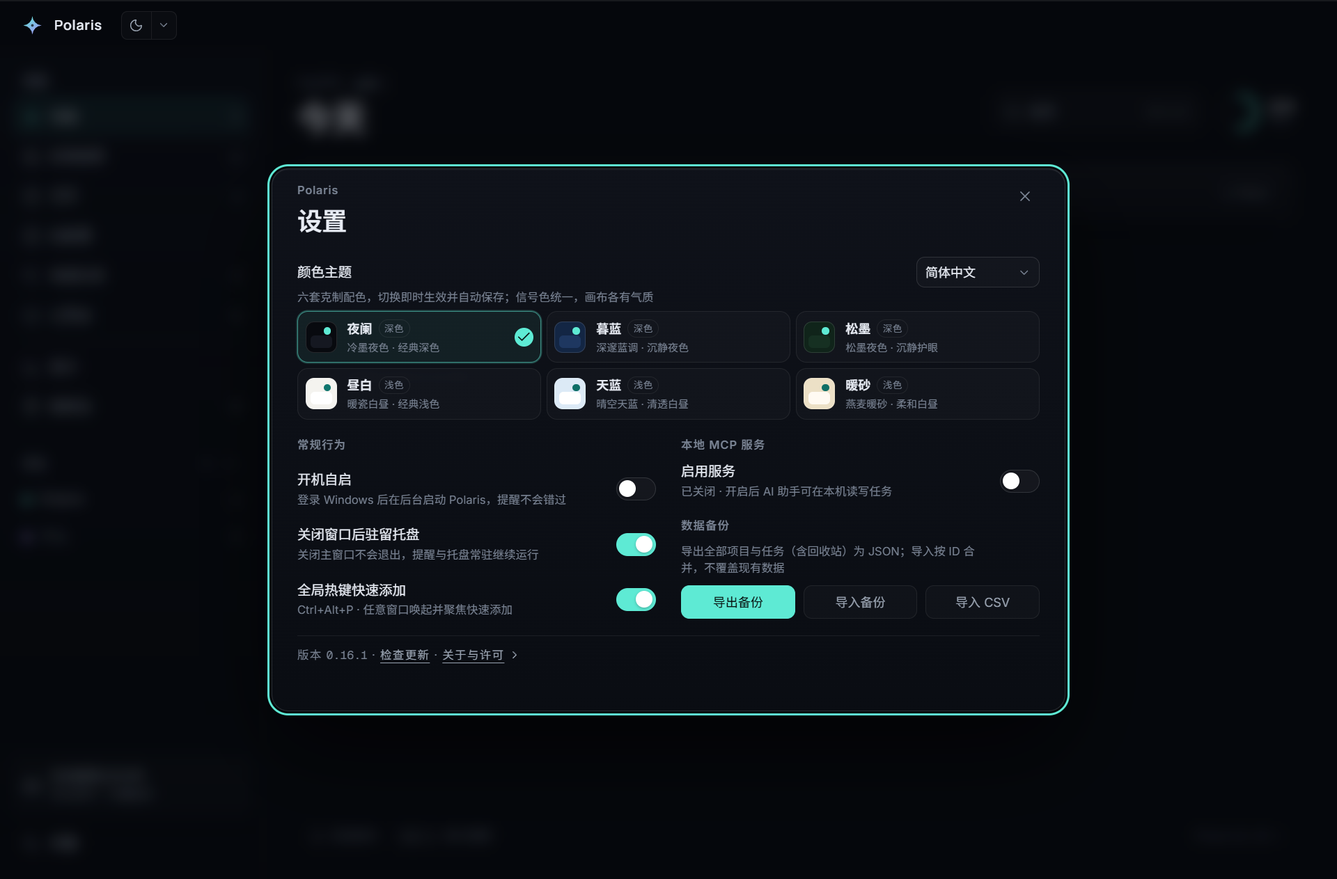
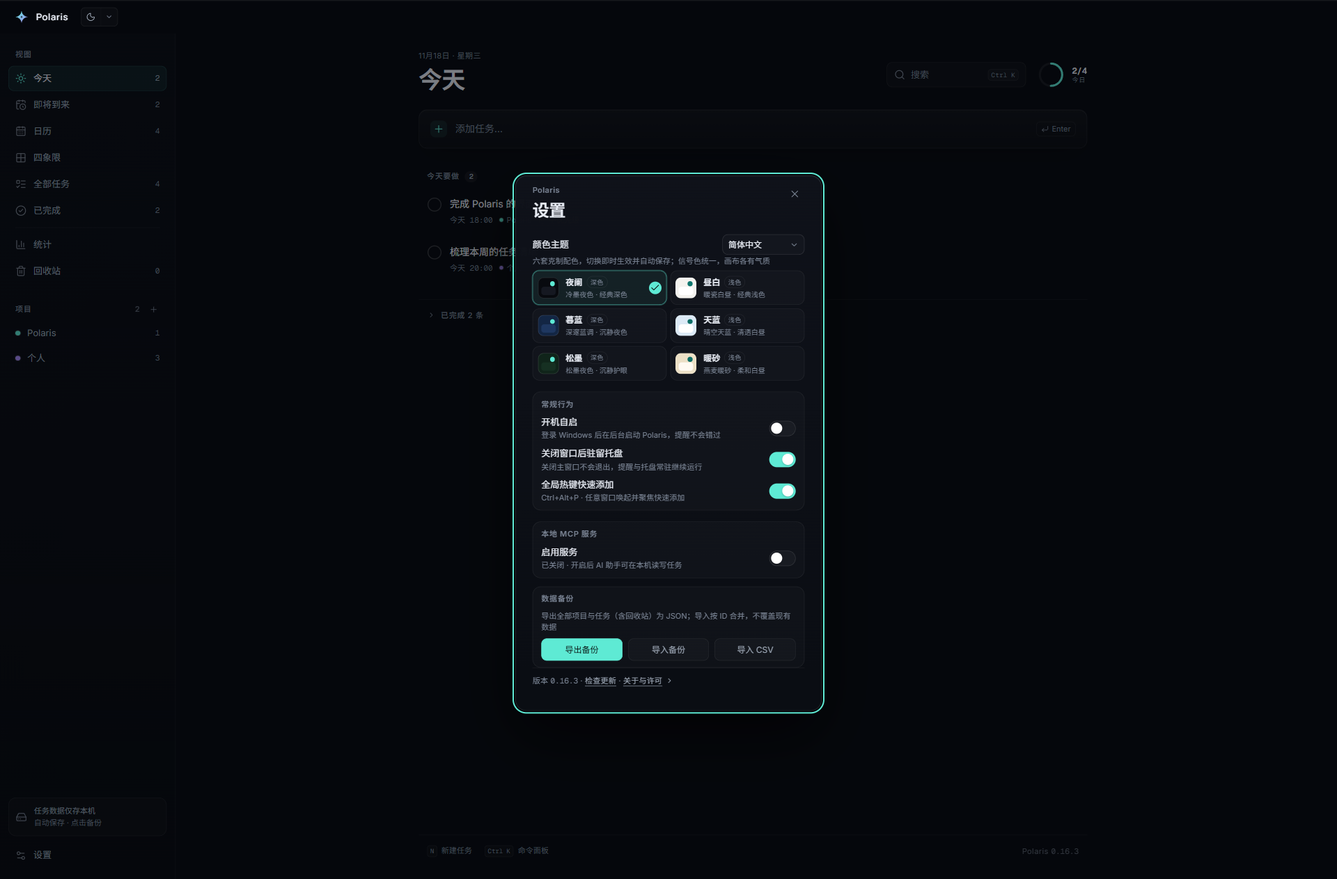
设置页顶边锚定根除关于展开抖动 + 分组卡片布局打磨
- 抖动根因：浮层按内容真实高度垂直居中，关于展开/MCP 启用长高瞬间重新居中=整面板跳
- 修法：顶边按名义高度锚定（单列 760/紧凑 560，max(24px,(100vh-名义)/2)），内容只向下生长；max-height 同扣顶边距；关于折叠加 motion 高度 0→auto 200ms 展开动画
- 布局：行为/MCP/备份三组成组卡（surface-1+line 材质与主题卡同源，半径 12）；废左列 space-between 拉伸（行距忽大忽小根因）改顶对齐固定行距；右列同拉伸、备份卡 flex:1 吸收余白，两列任何状态同高；卡内描述解锁 290px；页脚中文字距 0.08em→0.02em
- 预算实测（CDP 探针六档）：收起 551px，640 帽 576 吞热键错误行 25 恰好一屏；576 滚约 24px（旧约 40）；843 MCP 启用 657 不滚；顶边/页脚顶边展开收起全程零位移
- 冒烟新增 settingsAboutStable（1280×843 顶边+页脚顶边零位移且确实长高防恒真），158→159 全绿
- 截图归档重截；README/CLAUDE.md 同步；探针脚本已清
- 捕获伪影记录：CDP 该视口下 backdrop-filter 使固定浮层子树丢出截图（关 filter 即入镜），属工具层缺陷非应用 bug，截图瞬间关 filter 规避

diff --git a/src/renderer/src/styles/globals.css b/src/renderer/src/styles/globals.css
@@ -4406,20 +4406,26 @@ textarea {
 
 /* ---------- settings ---------- */
 
+/* 顶边锚定：浮层不再按内容真实高度垂直居中（内容一长高就重新居中 = 抖动），
+   而是按「名义高度」算出固定顶边距——单列名义 760、紧凑两列名义 560（媒体块覆写）。
+   展开关于/启用 MCP 只向下生长，顶边与页脚纹丝不动；名义值略大于收起态实际高度，
+   收起时面板落在光学中心偏上一点，比数学居中更稳。 */
 .settings-overlay {
+  --settings-inset-top: max(24px, calc((100vh - 760px) / 2));
   position: fixed;
   z-index: 70;
   inset: 0;
   display: flex;
-  align-items: center;
+  align-items: flex-start;
   justify-content: center;
+  padding-top: var(--settings-inset-top);
   background: var(--command-overlay);
   backdrop-filter: blur(7px);
 }
 
 .settings-panel {
   width: min(440px, calc(100vw - 48px));
-  max-height: calc(100vh - 96px);
+  max-height: calc(100vh - var(--settings-inset-top) - 24px);
   overflow-y: auto;
   padding: 12px 24px;
   border: 1px solid var(--line-strong);
@@ -4482,6 +4488,23 @@ textarea {
   margin-top: 0;
 }
 
+/* 分组卡片：行为 / MCP / 备份三组各自成卡，材质与主题选项卡同源
+   （surface-1 底 + line 描边），左列拉伸留下的余白被卡框收住，
+   不再是裸奔的大洞。半径 12 介于面板 16 与按钮 8 之间，层级递减。 */
+.settings-section--behavior,
+.settings-side .settings-section {
+  padding: 9px 12px;
+  border: 1px solid var(--line);
+  border-radius: 12px;
+  background: var(--surface-1);
+}
+
+/* 卡内描述不再锁 290px：半宽列里让句子吃满卡宽，少折一行是一行。 */
+.settings-section--behavior .settings-row-desc,
+.settings-side .settings-row-desc {
+  max-width: none;
+}
+
 /* 语言下拉上移到主题标题行右侧，省一整行高度。 */
 .settings-theme-head {
   display: flex;
@@ -4494,7 +4517,7 @@ textarea {
 .settings-side {
   display: flex;
   flex-direction: column;
-  gap: 16px;
+  gap: 12px;
   min-width: 0;
   margin-top: 16px;
 }
@@ -5013,7 +5036,7 @@ textarea {
   border-top: 1px solid var(--line);
   color: var(--text-tertiary);
   font-size: 11px;
-  letter-spacing: 0.08em;
+  letter-spacing: 0.02em;
 }
 
 /* 版本号走等宽，与日期/时间数字同一套排版；父级的字距对数字不适用。 */
@@ -5026,12 +5049,18 @@ textarea {
    不靠压字号换高度。主题网格三列两行横跨整幅；左列「应用行为」（三开关一组），
    右列「数据进出」（MCP + 备份，settings-side 包裹）；页脚/状态/关于折叠横跨整幅。
    命名 grid-area 定位，DOM 顺序 = 视觉顺序 = 焦点顺序，加节挪节不再打乱排布。
-   关于折叠不占常驻行（挂载才生隐式行），收起态高度预算 ≈ header 53 + 主题 156
-   + max(行为 152, MCP+备份 175) + 页脚/状态 44 + 四道 gap 64 + 内边距 24 ≈ 516px，
-   加热键冲突错误行 25px 也小于最小窗口 640-96=544px。
+   关于折叠不占常驻行（挂载才生隐式行）。分组卡片化后实测预算（CDP 探针）：
+   收起态含状态行 551px；640 窗口顶边距 40 + 底留 24 → 帽 576，加热键冲突
+   错误行 25 = 576 恰好一屏；576 实机档帽 528，内容 551 滚约 24px（旧版约 40，
+   面板自带 overflow，如实保留）。MCP 启用态 657px：843 窗口帽 677 不滚，
+   640/576 滚——令牌块本就是条件增高，滚动只发生在面板内部，顶边锚定不抖。
    断点取 860 而非 830：默认 840 窗口也走两列，留足余量吞掉任何条件行；
-   单列只留给 >860 的高窗口（关于折叠后全条件内容更矮，765px 里放得下）。 */
+   单列只留给 >860 的高窗口（收起态实测 799px，900 窗口帽 806 放得下）。 */
 @media (max-height: 860px) {
+  .settings-overlay {
+    --settings-inset-top: max(24px, calc((100vh - 560px) / 2));
+  }
+
   .settings-panel {
     display: grid;
     grid-template-columns: minmax(0, 1fr) minmax(0, 1fr);
@@ -5042,7 +5071,7 @@ textarea {
       'footer footer'
       'status status';
     column-gap: 24px;
-    row-gap: 16px;
+    row-gap: 12px;
     align-items: start;
     width: min(760px, calc(100vw - 48px));
   }
@@ -5090,23 +5119,31 @@ textarea {
     order: 6;
   }
 
-  /* 左列拉伸到与右列同高：MCP 启用态右列长高时，开关行间距自适应呼吸，
-     不留左下大洞；行距下限 8 由 gap 保住，多余空间 space-between 分摊。 */
+  /* 左列卡片拉伸到与右列同高（balanced 断言钉死两列等高）：行组顶对齐、
+     行距固定 8，余白留在卡框内底部——框住的留白是呼吸，没框的留白是洞。
+     旧 space-between 把余白摊进行距，三开关间距忽大忽小，节奏已废。 */
   .settings-section--behavior {
     grid-area: behavior;
     align-self: stretch;
     display: flex;
     flex-direction: column;
     gap: 8px;
-    justify-content: space-between;
+    justify-content: flex-start;
   }
 
   .settings-section--behavior .settings-row {
     margin-top: 0;
   }
 
+  /* 右列也拉伸：MCP 关闭态左卡内容比右列高时，余白由备份卡吸收
+     （flex:1 + 内容顶对齐），两列任何状态同高（balanced 断言）。 */
   .settings-side {
     grid-area: side;
+    align-self: stretch;
+  }
+
+  .settings-side .settings-section--backup {
+    flex: 1;
   }
 
   .settings-footer {

diff --git a/src/main/harness/smoke.ts b/src/main/harness/smoke.ts
@@ -3907,6 +3907,56 @@ export async function runSmokeTest(): Promise<void> {
       }
     }
 
+    // 设置页顶边锚定（1280×843 实机比例）：展开/收起关于时面板顶边与页脚顶边
+    // 纹丝不动——旧垂直居中在内容长高瞬间重新居中 = 用户实机报障的抖动根因；
+    // 现顶边按名义高度锁死，展开只向下生长（grew 证明真的长高了，不是恒真）。
+    let settingsAboutStable = false
+    if (mainWindow) {
+      const originalSize = mainWindow.getSize()
+      mainWindow.setSize(1280, 843)
+      await settledFrames(mainWindow.webContents)
+      try {
+        const stable = await mainWindow.webContents.executeJavaScript(`(async () => {
+          ${pageHelpers}
+          document.querySelector('.settings-item').click();
+          const panel = await waitFor(() => document.querySelector('.settings-panel'));
+          if (!panel) return { found: false };
+          await sleep(450);
+          const top = () => panel.getBoundingClientRect().top;
+          const ftop = () => panel.querySelector('.settings-footer').getBoundingClientRect().top;
+          const height = () => panel.getBoundingClientRect().height;
+          const before = top(); const fbefore = ftop(); const hbefore = height();
+          const toggle = panel.querySelector('.settings-about-toggle');
+          toggle?.click();
+          await waitFor(() => panel.querySelector('.about-credits'));
+          await sleep(350);
+          const openTop = top(); const openF = ftop(); const hopen = height();
+          toggle?.click();
+          await waitFor(() => !panel.querySelector('.about-credits'));
+          await sleep(350);
+          const closedTop = top(); const closedF = ftop();
+          document.querySelector('.settings-panel .detail-close')?.click();
+          await sleep(250);
+          return {
+            found: true,
+            grew: hopen > hbefore + 40,
+            openStable: Math.abs(openTop - before) <= 1 && Math.abs(openF - fbefore) <= 1,
+            closedStable: Math.abs(closedTop - before) <= 1 && Math.abs(closedF - fbefore) <= 1
+          };
+        })()`)
+        settingsAboutStable =
+          stable?.found === true &&
+          stable?.grew === true &&
+          stable?.openStable === true &&
+          stable?.closedStable === true
+        if (!settingsAboutStable) console.error('SETTINGS_ABOUT_STABLE_FAIL', JSON.stringify(stable))
+      } finally {
+        mainWindow.setSize(originalSize[0], originalSize[1])
+        await settledFrames(mainWindow.webContents)
+      }
+    }
+
+
     // 托盘驻留开关：默认开；UI 往返持久化；开启时关窗=隐藏而非退出。
     let trayToggleWorks = false
     try {
@@ -4829,6 +4879,7 @@ export async function runSmokeTest(): Promise<void> {
       settingsFitsCompact: settingsFitsCompact === true,
       settingsNoShift: settingsNoShift === true,
       settingsLayoutV2: settingsLayoutV2 === true,
+      settingsAboutStable: settingsAboutStable === true,
       trayToggleWorks: trayToggleWorks === true,
       trayMenuEntries: trayMenuEntries === true,
       traySettingsOpens: traySettingsOpens === true,
@@ -4930,6 +4981,7 @@ export async function runSmokeTest(): Promise<void> {
           settingsFitsCompact,
           settingsNoShift,
           settingsLayoutV2,
+          settingsAboutStable,
           trayToggleWorks,
           trayMenuEntries,
           traySettingsOpens,

diff --git a/src/renderer/src/components/SettingsPanel.tsx b/src/renderer/src/components/SettingsPanel.tsx
@@ -673,9 +673,19 @@ export function SettingsPanel({ open, onClose, scrollTo = null }: SettingsPanelP
               {updateErrorDetail ?? (updateStatusVisible && update ? updateStatusText(update, t) : '')}
             </div>
 
-            {/* 关于与许可折叠内容：展开才挂载，收起即卸载，默认零增高。 */}
-            {aboutOpen && (
-              <div className="settings-about">
+            {/* 关于与许可折叠内容：展开才挂载，收起即卸载，默认零增高。
+                高度 0→auto 动画让展开是「缓缓展开」而不是瞬移；浮层顶边已锚定，
+                面板不重新居中，动画只向下生长。 */}
+            <AnimatePresence initial={false}>
+              {aboutOpen && (
+                <motion.div
+                  className="settings-about"
+                  initial={{ height: 0, opacity: 0 }}
+                  animate={{ height: 'auto', opacity: 1 }}
+                  exit={{ height: 0, opacity: 0 }}
+                  transition={{ duration: 0.2, ease: 'easeOut' }}
+                  style={{ overflow: 'hidden' }}
+                >
                 {/* 版本号常驻页脚，展开区只留许可署名，不重复报版本。 */}
                 <div className="settings-row-desc">{t('settings.versionOnly')}</div>
                 <div className="about-credits">
@@ -691,8 +701,9 @@ export function SettingsPanel({ open, onClose, scrollTo = null }: SettingsPanelP
                     {t('settings.creditsNote')}
                   </div>
                 </div>
-              </div>
-            )}
+                </motion.div>
+              )}
+            </AnimatePresence>
 
             {/* 重新生成令牌的二次确认：旧客户端配置立即失效，属破坏性动作。
                 ConfirmDialog 自带焦点陷阱（压在面板陷阱之上）并在 React 根

diff --git a/CLAUDE.md b/CLAUDE.md
@@ -183,7 +183,7 @@ npm run make:icon   # regenerate build/icon.png / .ico / .icns
 - Two locales ship: `zh-CN` (default) and `en`. The dictionary is a lightweight hand-rolled module under `src/shared/i18n/` — no third-party i18n library. Chinese is the mother table, split by domain into nine files (`common` / `nav` / `views` / `detail` / `quickAdd` / `settings` / `dialogs` / `main` / `features`) merged in `zh.ts`; `en.ts` is typed `const en: Messages`, so a missing English key is a typecheck error. `translate(locale, key, params)` interpolates `{name}` and falls back to `zhCN` then the raw key. Brand name `Polaris` is never translated.
 - Renderer: `useLocaleStore` (Zustand) owns the locale, persisted in localStorage `polaris-locale`. Initial value = URL query `locale` → stored value → `navigator.language` through `localeFromLanguageTag` (zh* → `zh-CN`, everything else → `en`). Components call `useT()` for a locale-bound `t` and `useLocale()` when a helper needs the locale (dates, recurrence, theme labels). `LocaleSync` is mounted once in `App.tsx` and syncs `<html lang>`, pushes `app:set-locale` to the main process, follows `storage` events from other windows via `setState` (never writing back), and exposes the smoke hook `window.__polarisSetLocale`.
 - Main process: `src/main/locale.ts` is the single record, persisted in the existing `meta` table under `locale` (no migration). `initAppLocale()` forces `zh-CN` whenever `POLARIS_SMOKE` / `POLARIS_SHOT` / `POLARIS_SCREENSHOT` is set (harness builds only — the env read is behind `__POLARIS_HARNESS__`) — every existing smoke assertion and screenshot works on Chinese text. `app:get-locale` / `app:set-locale` live inline in `app.whenReady()`; a successful set also calls `updateTrayLocale()`. The renderer URL carries `?locale=` so the first frame paints the authoritative language before the store boots (the splash does too). Tray labels go through the `tray.*` keys and `getTrayMenuLabels()` reads the built menu; `describeTrayCheck(state, locale = 'zh-CN')` is the pure helper behind tray balloons; native file dialogs use `translate(getCurrentLocale(), 'native.*')`.
-- The language switch is `LanguageSelect.tsx`, a hand-drawn dropdown sitting on the theme section's title row (right side) in `SettingsPanel`, saving a full row of height. It replaces the native `<select>` because the OS draws the native popup white regardless of theme; the menu is absolutely positioned inside the row (scrolls with the panel, no viewport repositioning math) and paints with `--panel-bg` / `--line-strong` / `--hover` tokens like `ThemeMenu`. Options are `div[role="option"]` with roving tabindex (never buttons — the trap's FOCUSABLE selector counts buttons); Esc must `stopPropagation` or the settings panel's window listener closes the whole panel; Tab closes without trapping; outside pointerdown and blur-outside close it. The panel's compact two-column layout is positioned by named `grid-template-areas` (left = behavior group, right = MCP + backup wrapped in `settings-side`), so sections can be added or moved without breaking the grid. About/credits collapse into a footer disclosure (「关于与许可」, expanded mounts / collapsed unmounts); the version number stays in the footer. The two options always read `简体中文` / `English` in their own language, never translated. Trigger focus uses the app's soft-focus language (faint accent border + light glow, `outline: 0`), never a hard ring. Smoke: `languageMenuThemed` compares the menu's computed background against a `var(--panel-bg)` probe byte-for-byte, clicks through both options, and checks Esc closes only the menu.
+- The language switch is `LanguageSelect.tsx`, a hand-drawn dropdown sitting on the theme section's title row (right side) in `SettingsPanel`, saving a full row of height. It replaces the native `<select>` because the OS draws the native popup white regardless of theme; the menu is absolutely positioned inside the row (scrolls with the panel, no viewport repositioning math) and paints with `--panel-bg` / `--line-strong` / `--hover` tokens like `ThemeMenu`. Options are `div[role="option"]` with roving tabindex (never buttons — the trap's FOCUSABLE selector counts buttons); Esc must `stopPropagation` or the settings panel's window listener closes the whole panel; Tab closes without trapping; outside pointerdown and blur-outside close it. The panel's compact two-column layout is positioned by named `grid-template-areas` (left = behavior group, right = MCP + backup wrapped in `settings-side`), so sections can be added or moved without breaking the grid. Behavior / MCP / backup are group cards (`--surface-1` + `--line`, radius 12 — same material as theme options); both columns stretch to equal height in every state (behavior `align-self: stretch` with top-aligned rows at fixed gap 8 — the old `space-between` stretch made uneven row gaps; side stretches too and the backup card absorbs slack via `flex: 1`), pinned by the `balanced` smoke discriminator. The overlay is **top-anchored, not content-centered**: `--settings-inset-top: max(24px, calc((100vh - nominal) / 2))` (nominal 760 single-column / 560 compact) fixes the panel's top edge so growing content (about disclosure, MCP token block) only extends downward — no re-centering jump; panel `max-height` subtracts the same inset. About/credits collapse into a footer disclosure (「关于与许可」, expanded mounts / collapsed unmounts, `motion.div` height 0→auto 200ms so the growth reads as an unfold); the version number stays in the footer. Smoke `settingsAboutStable` pins panel-top and footer-top immutability across the toggle at 1280×843 (with a `grew` guard against vacuous pass). The two options always read `简体中文` / `English` in their own language, never translated. Trigger focus uses the app's soft-focus language (faint accent border + light glow, `outline: 0`), never a hard ring. Smoke: `languageMenuThemed` compares the menu's computed background against a `var(--panel-bg)` probe byte-for-byte, clicks through both options, and checks Esc closes only the menu.
 - Formatting is locale-aware: `lib/dates.ts` (`formatDue` / `formatHeaderDate` / `formatCompletedAt` / `formatDeletedAt`), `lib/dateTime.ts` (`weekdayLabels` / `monthLabel` / `dayLabel` / `dayPart`), `shared/quickAddParse.ts` (`formatParsedDue` takes an explicit locale) and `shared/recurrence.ts` (`recurrenceLabel` takes one). Pass the current locale at every call site; the default parameter exists for legacy call sites, not for new ones.
 - Adding a third language means: extend `Locale` / `LOCALES` / `isLocale` / `localeFromLanguageTag` in `src/shared/i18n/index.ts`, add an `xx.ts` implementing `Messages` and branch `translate` on it, teach the date helpers that locale, and add the option to `LanguageSelect` (it maps `LOCALES` automatically — extend its `OPTION_LABEL_KEY` and the message dictionaries). `localeFromLanguageTag` must keep defaulting non-Chinese tags to `en` until a real locale match exists.
 - Quick-add natural-language parsing is bilingual and input-driven: Chinese and English date words are both recognized in either UI language; the locale only chooses chip and receipt copy. The English layer is enumerated inline (`Step 2b` in `shared/quickAddParse.ts`), not forked — it feeds the same candidate list through the existing cluster selection, head/tail anchoring, title carving, dismissal and `candidateCounts` machinery, and reuses the existing `TokenKind`s except `offsetEn`. Grammar: today / tonight / tomorrow / day after tomorrow (plus tmr / tmw), weekday names and abbreviations with optional next / this / on (`next` = 下周 semantics; a `this` weekday already past is rejected, not rolled forward, matching Chinese 「本周五」), 3pm / 3:30pm / 3 pm / at 3 / at 15 / noon / midnight, bare morning / afternoon / evening (defaults 09/15/20, aligned with 上午/下午/晚上), in N hours|minutes|days|weeks (hours/minutes are exact millisecond offsets — instant semantics; days/weeks are wall-clock `addDays` additions, week = 7×day, matching 「后天」 — a fixed 86400000ms day would drift an hour across a DST transition), dec 25 / 25 dec / december 25 / 12/25 (US month-first), and `!high` / `!medium` / `!med` / `!low`. `2026-12-25` and `#project` were already language-neutral. False-positive defenses: ASCII lookbehind word boundaries replace the Chinese character guards, so `tomorrowland` and the `in` of `join` never match; a month name only counts when adjacent to a day number (`May the force be with you`, `march forward`, `April is nice` stay titles); a bare weekday abbreviation needs lowercase or sentence case with no following lowercase word or proper noun and is skipped after pronouns (`sat down`, `Sun Microsystems`, `SAT scores`, `Mon ami`); `good morning`-style greetings are masked whole. Offsets stay UTF-16 code-unit half-open spans so `String.slice` / `setSelectionRange` remain aligned. CSV import headers stay as the competitors export them (Todoist English columns, 滴答/TickTick Chinese columns) and are not localized. Local MCP tool names and descriptions stay English (protocol surface, not UI). Code comments stay Chinese.

diff --git a/README.md b/README.md
@@ -75,7 +75,7 @@ Polaris 面向 Windows 11 桌面，用 Electron 构建，数据落在本机 SQLi
 - **小屏适配**：窗口默认与最小尺寸贴合屏幕工作区，分辨率变化时自动重收；1024×576 级别小屏走紧凑布局，侧栏导航独立滚动，存储卡与设置钉底不丢。
 - **界面语言**：设置「颜色主题」区可在简体中文 / English 之间切换，界面文字、日期格式与托盘菜单立即更新并记住选择；系统通知与原生文件对话框同步使用当前语言。
 - **键盘优先与无障碍**：命令面板（`Ctrl K`）、设置和窄屏详情有焦点陷阱，宽屏详情保持列表可操作；支持 skip link、reduced motion；全应用十处输入框统一柔和聚焦语言（淡边 + 浅光晕），焦点环绝不与填充同色。
-- **设置一屏收纳**：设置面板在默认窗口一屏放下，矮窗口自动两列回流（左「常规行为」、右「数据进出」MCP + 备份）；语言下拉坐在主题标题行、令牌单行横排掩码、关于与许可收进页脚折叠；面板高度不随状态跳变——更新状态行常驻占位，检查结果落槽不抖动；自定义标题栏保留 Windows 原生最小化 / 最大化 / 关闭按钮。
+- **设置一屏收纳**：设置面板在默认窗口一屏放下，矮窗口自动两列回流（左「常规行为」、右「数据进出」MCP + 备份），行为 / MCP / 备份三组各自成组卡，两列任何状态同高；语言下拉坐在主题标题行、令牌单行横排掩码、关于与许可收进页脚折叠（展开带高度动画）；面板顶边按名义高度锚定——展开关于、启用 MCP 只向下生长，绝不重新居中抖动；更新状态行常驻占位，检查结果落槽不跳变；自定义标题栏保留 Windows 原生最小化 / 最大化 / 关闭按钮。
 - **关于与署名**：版本号常驻设置页脚，「关于与许可」折叠展开后显示 MIT 许可与字体 / 图标署名；完整第三方组件与字体声明随安装包放在 `resources/NOTICE` 与 `resources/licenses/`。
 
 ## 界面预览
@@ -352,7 +352,7 @@ npm run verify:datetime
 npm run verify:pure
 ```
 
-- **冒烟测试**（`scripts/smoke.mjs`）启动真实 Electron，通过 `webContents.executeJavaScript` 驱动界面，158 条具名断言覆盖从快速添加到在线更新的全链路；使用临时 userData 配置目录，不碰本机数据，失败时以非零退出码结束并单独打印 `POLARIS_SMOKE_FAILED ["断言名", …]`。
+- **冒烟测试**（`scripts/smoke.mjs`）启动真实 Electron，通过 `webContents.executeJavaScript` 驱动界面，159 条具名断言覆盖从快速添加到在线更新的全链路；使用临时 userData 配置目录，不碰本机数据，失败时以非零退出码结束并单独打印 `POLARIS_SMOKE_FAILED ["断言名", …]`。
 - **主题校验**检查六套主题的 WCAG 对比度、注册表不变量与跨家族配对。
 - **日期时间校验**直接 import 渲染层纯函数并注入时钟，用字面量期望表加全天 5760 个真实时刻扫描，再覆盖 7 个时区 2026 年的每一次夏令时跳变（共 17280 个真实时刻），钉死「今天」按钮不落过去这类靠跑 UI 撞概率的边界。
 - **纯函数快速校验**（`npm run verify:pure`，CI 已挂）不启动 Electron，直接在 Node 里 import `shared/quickAddParse.ts` 与 `shared/retention.ts`，秒级跑完与冒烟 harness 同源的中文/英文解析真值表、误报反例、撤销状态机与保留期边界表；两处断言表需同步维护（`src/main/harness/assertions.ts` 的原断言保留，E2E 仍跑）。
@@ -380,7 +380,7 @@ npm run verify:pure
 
 **托盘与热键**：构建后菜单标签恰为四项、托盘「设置」唤起并开面板、手动检查七态气泡文案真值表、开发态检查不弹窗不唤窗；热键默认开启、设置往返、冲突降级中文提示、隐藏窗口唤起回「今天」并聚焦输入。
 
-**布局与聚焦**：设置面板一屏守卫（默认 840 与紧凑两档，点过检查更新带状态行再量）、低分辨率 1024×536 紧凑档生效且侧栏/主区不溢出、存储卡直达备份区；设置零抖动守卫在实机 1024×576 档量令牌行单行掩码形状（头 7 + … + 末 4）、高度恒一行、按钮恰为复制与重新生成、明文永不上屏，以及检查更新结果落槽前后面板内容高度与页脚顶边零位移；布局 v2 守卫另验两列方位、语言上移、两列同高与关于折叠往返，掩码盒宽度须占令牌行大头；焦点环扫描覆盖主视图、详情栏、日期弹层、主题菜单展开、回收站确认弹窗五种状态，任何环与自身填充/边框同色即失败。
+**布局与聚焦**：设置面板一屏守卫（默认 840 与紧凑两档，点过检查更新带状态行再量）、低分辨率 1024×536 紧凑档生效且侧栏/主区不溢出、存储卡直达备份区；设置零抖动守卫在实机 1024×576 档量令牌行单行掩码形状（头 7 + … + 末 4）、高度恒一行、按钮恰为复制与重新生成、明文永不上屏，以及检查更新结果落槽前后面板内容高度与页脚顶边零位移；布局 v2 守卫另验两列方位、语言上移、两列同高与关于折叠往返，掩码盒宽度须占令牌行大头；顶边锚定守卫在 1280×843 档验展开 / 收起关于时面板顶边与页脚顶边零位移（且面板确实长高，非恒真）；焦点环扫描覆盖主视图、详情栏、日期弹层、主题菜单展开、回收站确认弹窗五种状态，任何环与自身填充/边框同色即失败。
 
 **主题**：配对快切连点两次回到原主题（三对逐一校验）、六套主题矩阵的 `data-theme` / 持久化 / 令牌生效、标题栏主题菜单（六行齐全且顺序固定、打开即聚焦当前行、点选落库、菜单卸载后 `aria-expanded` 归位、焦点回到箭头、Esc 只收菜单），以及命令面板输入「主题」命中六条直达并选中生效。
 
